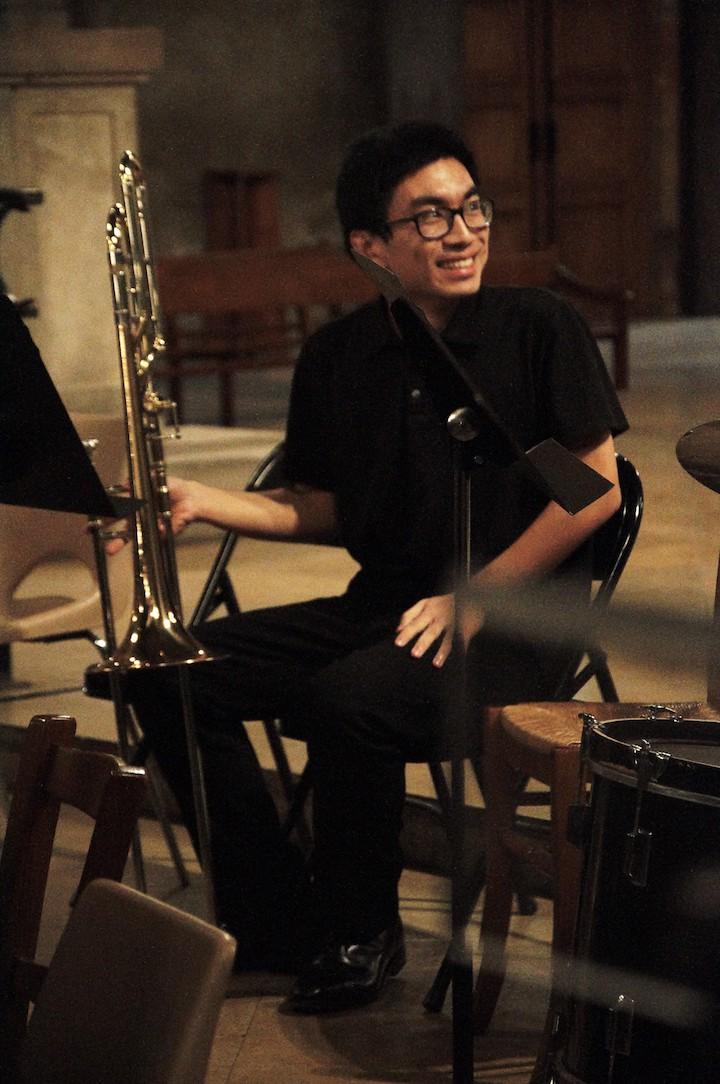
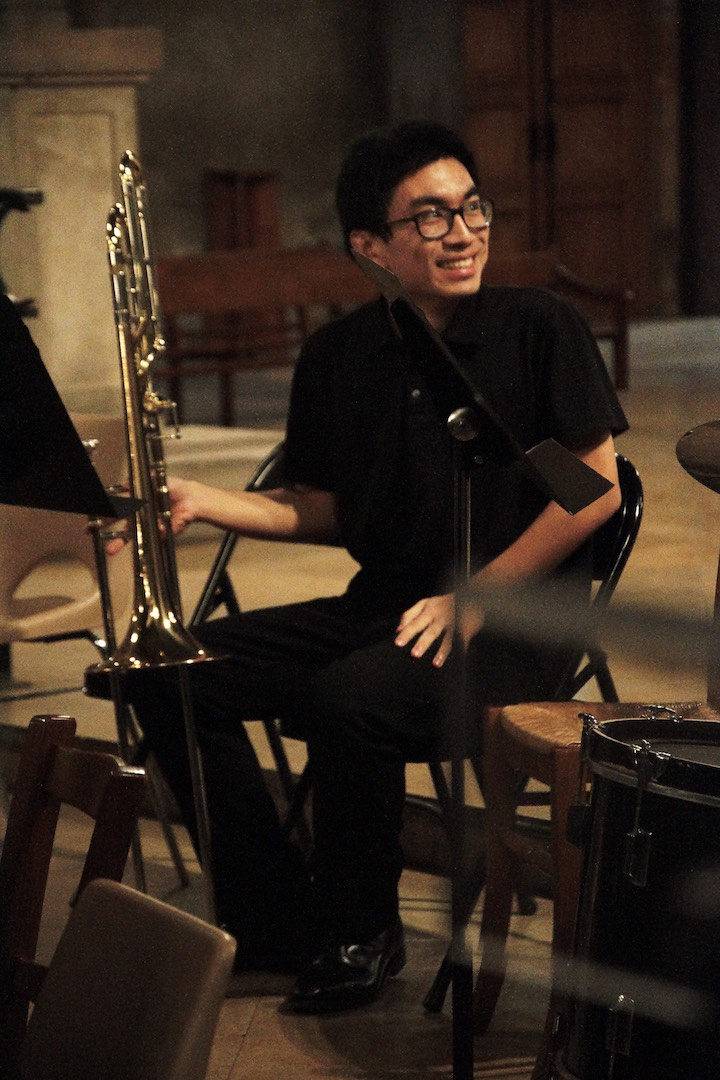
resize image of me and set image height for better LCP

diff --git a/index.md b/index.md
@@ -8,7 +8,7 @@ layout: default
 {: #top}
 
 <div class="card" markdown="1">
-![A picture of me with a trombone](me.jpg "This is the current best picture of myself that I have."){:width="240px"}
+![A picture of me with a trombone](me.jpg "This is the current best picture of myself that I have."){:width="240px"}{:height="360"}{:fetchpriority="high"}
 <br />
 <small>Photo credit: Flora Gaudillière, 2019</small>
 
